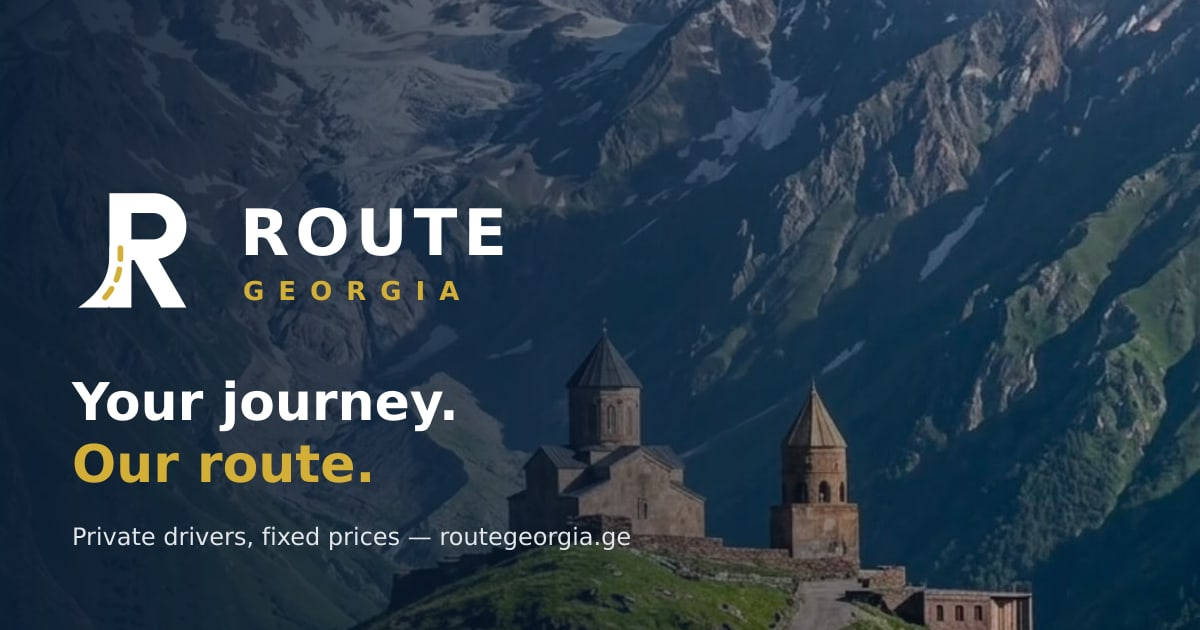
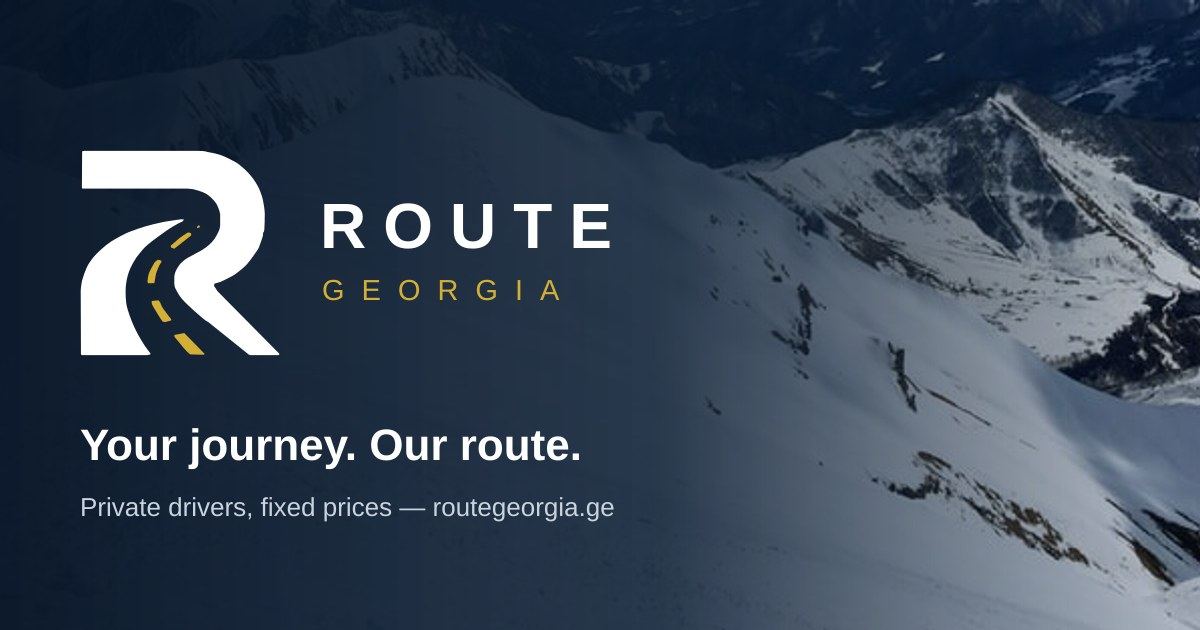
Modernization phases 1-3: real brand mark, Inter, design-system rules
The header, footer, favicon and share card now use the designer's actual
R mark from the design-system package (the road-counter drawing), with
source SVGs kept in /public/brand. Inter becomes the reading face while
Montserrat carries headings, navigation and buttons, per the brand
guidelines. Route Blue #183A5B is the hover depth, semantic feedback and
motion tokens are defined, the focus ring is the system's 3px gold, the
header keeps to five primary items (Schools stays in the footer and on
the Business page), and the checkout inputs carry autocomplete hints.
Lock file verified with a clean npm ci.

diff --git a/src/components/logo.tsx b/src/components/logo.tsx
@@ -1,25 +1,16 @@
 /**
- * The RouteGeorgia monogram, matched to the identity sheets: a bold R whose
- * left stem flows into a road sweeping down-left, with a gold dashed centre
- * line. Drawn in code — crisp at every size, restyleable per surface, and
- * replaceable by the designer's vector in one file.
+ * The RouteGeorgia mark — the designer's actual vector from the design
+ * system package (assets/logo/mark-primary.svg): a bold R whose counter
+ * forms a winding road, with a dashed gold centre line. Fills are
+ * parametrised so the same drawing serves the primary (navy-on-light)
+ * and reverse (white-on-navy) applications; the source SVGs live in
+ * /public/brand for print and email use.
  */
 function MarkPaths({ fg, dash }: { fg: string; dash: string }) {
   return (
     <g>
-      <path
-        fill={fg}
-        d="M17 6 h20 a15 15 0 0 1 2.2 29.84 L52 58 H40.6 L28.4 36.4 H27 v-9.4 h10 a6 6 0 0 0 0-12 H27 V58 H17 Z"
-      />
-      <path fill={fg} d="M27 30 v6 c0 8.5 -3.4 15.4 -10.6 22 H2.8 C13.4 50.6 17 43.6 17 34 v-4 Z" />
-      <path
-        fill="none"
-        stroke={dash}
-        strokeWidth="2.6"
-        strokeLinecap="round"
-        strokeDasharray="5 4.6"
-        d="M22 31 v4.4 c0 7.8 -2.8 13.9 -8.6 19.8"
-      />
+      <path fill={fg} d="M839 860C839 860 836 863 836 863C836 863 717 863 717 863C717 863 717 863 711 861C682.52 838.6 568.44 746.2 539 723C527 716 536.76 723 527 716C517.24 708.16 493.68 688.4 478 674C462.32 659.6 440.84 639.92 429 626C417.16 612.08 409.12 596.92 404 587C398.88 577.08 398.12 572.96 397 564C397 555.04 397 540.12 397 531C398.12 521.88 400.64 514.52 404 507C407.36 499.48 413.84 489.76 418 484C422.16 478.24 424.24 475.96 430 471C435.76 466.04 440.72 461 454 453C467.28 445 498.6 429.8 513 421C527.4 412.2 535.52 405.52 544 398C552.48 390.48 559.6 383.12 566 374C572.4 364.88 580.16 349.96 584 341C587.84 332.04 589.04 329.36 590 318C590 306.64 590 283.6 590 270C588.08 256.4 582.64 242.76 578 233C573.36 223.24 567.24 216.04 561 209C554.76 201.96 546.04 194.12 539 189C531.96 183.88 526.6 180.84 517 177C507.4 173.16 489.56 167.4 479 165C468.44 162.6 451 162 451 162C451 162 10 162 10 162C10 162 8 158 8 158C8 158 9 5 9 5C9 5 17 3 17 3C17 3 406.48 3 490 3C539 3.8 522.52 5.12 539 8C555.48 10.88 576.04 15.08 593 21C609.96 26.92 632.2 38.28 645 45C657.8 51.72 663.56 55.64 673 63C682.44 70.36 695.2 82.04 704 91C712.8 99.96 721.28 110.04 728 119C734.72 127.96 741.2 138.52 746 147C750.8 155.48 754.16 161.92 758 172C761.84 182.08 766.8 194.8 770 210C773.2 225.2 777.04 247.16 778 267C778 286.84 777.12 321.04 776 334C774.88 346.96 771.96 343.68 771 348C770.04 352.32 771 352.84 770 361C767.76 369.16 760.84 389.24 757 399C753.16 408.76 754.48 409.2 746 422C737.52 434.8 716.64 464.6 704 479C691.36 493.4 677.08 503.84 667 512C656.92 520.16 652.84 523.28 641 530C629.16 536.72 593 554 593 554C593 554 566 562 566 562C566 562 564 571 564 571C564 571 579 594 579 594C579 594 839 857 839 857C839 857 839 860 839 860ZM296 860C296 860 283 863 283 863C283 863 8 863 8 863C8 863 4 860 4 860C4 860 3 590 3 590C3 590 5.16 562.88 9 548C12.84 533.12 21.24 510.12 27 497C32.76 483.88 38.28 475.6 45 466C51.72 456.4 58.44 447.72 69 437C79.56 426.28 98.52 408.92 111 399C123.48 389.08 134.04 382.68 147 375C159.96 367.32 180 356.76 192 351C204 345.24 208.72 343.8 222 339C235.28 334.2 254.84 326.76 275 321C295.16 315.24 323.84 307.8 348 303C372.16 298.2 426 291 426 291C426 291 438 292 438 292C438 292 430 302 430 302C430 302 423.56 303.08 413 309C402.44 314.92 384.48 324.76 364 339C343.52 353.24 303.4 382.32 285 398C266.6 413.68 257.64 426.76 249 437C240.36 447.24 236.76 452.72 231 462C225.24 471.28 217.8 484.44 213 495C208.2 505.56 204.04 517.12 201 528C197.96 538.88 195.44 552.28 194 563C192.56 573.72 192 582.84 192 595C192 607.16 192.56 626.68 194 639C195.44 651.32 197 658.56 201 672C205 685.44 212.28 706.68 219 723C225.72 739.32 234.36 757.84 243 774C251.64 790.16 264.52 811.04 273 824C281.48 836.96 296 855 296 855C296 855 296 860 296 860Z" />
+      <path fill={dash} d="M498 317C498 317 503 317 503 317C503 317 505 324 505 324C505 324 494 329 494 329C494 329 492 323 492 323C492 323 498 317 498 317ZM468 359C468 359 397 415 397 415C397 415 383 410 383 410C383 410 382 402 382 402C382 402 419 370 419 370C419 370 446.12 350.68 453 347C459.88 347 459.6 347 462 347C464.4 347.8 467.04 350.08 468 352C468 353.92 468 359 468 359ZM313 560C313 560 286 560 286 560C286 560 284 552 284 552C284 552 286.04 528.96 291 516C295.96 503.04 315 471 315 471C315 471 328 461 328 461C328 461 342 465 342 465C342 465 343 471 343 471C343 471 335.68 481.16 332 489C328.32 496.84 320 520 320 520C320 520 313 560 313 560ZM384 717C384 717 358 724 358 724C358 724 354.68 724 347 721C339.32 711.08 317.2 674.16 310 662C302.8 649.84 302 645 302 645C302 645 302 635 302 635C302 635 330 632 330 632C330 632 337 640 337 640C337 640 342.48 655.48 350 667C357.52 678.52 384 712 384 712C384 712 384 717 384 717ZM525 858C525 858 522 861 522 861C522 861 482.6 861 465 860C447.4 850.72 422.72 814.84 412 803C401.28 791.16 398 786 398 786C398 786 397 778 397 778C397 778 439 770 439 770C439 770 525 858 525 858Z" />
     </g>
   );
 }
@@ -29,13 +20,15 @@ export function RMark({ className = "size-9", tile = false }: { className?: stri
     <svg viewBox="0 0 64 64" className={className} aria-hidden>
       {tile ? (
         <>
-          <rect width="64" height="64" rx="14" fill="#0b1d33" />
-          <g transform="translate(7,3) scale(0.8)">
+          <rect width="64" height="64" rx="15" fill="#0B1D33" />
+          <g transform="translate(7.5,6) scale(0.0577)">
             <MarkPaths fg="#ffffff" dash="#d4af37" />
           </g>
         </>
       ) : (
-        <MarkPaths fg="#0b1d33" dash="#d4af37" />
+        <g transform="scale(0.0736) translate(11,4)">
+          <MarkPaths fg="#0b1d33" dash="#d4af37" />
+        </g>
       )}
     </svg>
   );
@@ -46,16 +39,18 @@ export function Logo({ dark = false }: { dark?: boolean }) {
     <span className="flex items-center gap-2.5" aria-hidden>
       {dark ? (
         <svg viewBox="0 0 64 64" className="size-9" aria-hidden>
-          <MarkPaths fg="#ffffff" dash="#d4af37" />
+          <g transform="scale(0.0736) translate(11,4)">
+            <MarkPaths fg="#ffffff" dash="#d4af37" />
+          </g>
         </svg>
       ) : (
         <RMark className="size-9" />
       )}
       <span className="flex flex-col leading-none">
-        <span className={`text-lg font-extrabold tracking-[0.08em] ${dark ? "text-white" : "text-[#0b1d33]"}`}>
+        <span className={`font-display text-lg font-semibold tracking-[0.24em] ${dark ? "text-white" : "text-[#0b1d33]"}`}>
           ROUTE
         </span>
-        <span className="mt-0.5 text-[9px] font-semibold tracking-[0.42em] text-[#d4af37]">
+        <span className={`font-display mt-0.5 text-[8.5px] font-medium tracking-[0.55em] ${dark ? "text-[#d4af37]" : "text-[#c7992f]"}`}>
           GEORGIA
         </span>
       </span>

diff --git a/src/app/globals.css b/src/app/globals.css
@@ -41,7 +41,7 @@
   --color-brand-400: #56779f;
   --color-brand-500: #2b4a74;
   --color-brand-600: #0b1d33;
-  --color-brand-700: #142e4e;
+  --color-brand-700: #183a5b; /* Route Blue — hover depth */
   --color-brand-800: #081524;
   --color-brand-900: #050e19;
 
@@ -66,10 +66,23 @@
   --color-gold-600: #a8871f;
   --color-gold-700: #7d6417;
 
+  /* Feedback (design system semantics) */
+  --color-success: #157a55;
+  --color-warning: #a56610;
+  --color-danger:  #b43b42;
+  --color-info:    #2e6e9e;
+
+  /* Motion (design system: small / component / spatial) */
+  --duration-fast: 120ms;
+  --duration-normal: 220ms;
+  --duration-slow: 420ms;
+  --ease-standard: cubic-bezier(.2, .8, .2, 1);
+
   --color-danger: #b3261e;
   --color-danger-bg: #fbeceb;
 
-  --font-sans: "Montserrat", "Noto Sans Georgian", "Segoe UI", Arial, sans-serif;
+  --font-sans: "Inter", "Noto Sans Georgian", "Segoe UI", Arial, sans-serif;
+  --font-display: "Montserrat", "Noto Sans Georgian", "Segoe UI", Arial, sans-serif;
 
   --radius-card: 1rem;
 
@@ -99,6 +112,11 @@ body {
 /* Bold labels carry the -0.02em tracking — a deliberate typographic tic. */
 .font-semibold, .font-bold, strong { letter-spacing: -0.02em; }
 
+/* Brand face for the display voice; Inter carries reading text. */
+h1, h2, h3, h4, h5, nav, button, .font-display {
+  font-family: var(--font-display);
+}
+
 /* Micro caps annotation above sections — steel, quiet. */
 .eyebrow {
   font-size: 0.6875rem;
@@ -119,7 +137,7 @@ body {
 }
 
 :focus-visible {
-  outline: 2px solid var(--color-brand-600);
+  outline: 3px solid var(--color-gold-500);
   outline-offset: 2px;
   border-radius: 4px;
 }

diff --git a/src/app/[locale]/layout.tsx b/src/app/[locale]/layout.tsx
@@ -39,7 +39,6 @@ export default async function LocaleLayout({
     { href: `/${locale}/tours`, label: t("nav.tours") },
     { href: `/${locale}/plan`, label: t("nav.plan") },
     { href: `/${locale}/business`, label: t("nav.business") },
-    { href: `/${locale}/schools`, label: t("nav.schools") },
     { href: `/${locale}/about`, label: t("nav.about") },
   ];
 

diff --git a/src/app/layout.tsx b/src/app/layout.tsx
@@ -1,5 +1,8 @@
 import type { Metadata } from "next";
 import { config } from "@/lib/config";
+import "@fontsource/inter/400.css";
+import "@fontsource/inter/500.css";
+import "@fontsource/inter/600.css";
 import "@fontsource/montserrat/400.css";
 import "@fontsource/montserrat/500.css";
 import "@fontsource/montserrat/600.css";

diff --git a/MODERNIZATION-PLAN.md b/MODERNIZATION-PLAN.md
@@ -1,0 +1,82 @@
+# RouteGeorgia — Website Modernization Plan
+
+*Prepared 23 Aug 2026, against the Route Georgia Design System v1.0 ("Round 1" identity).*
+
+## Where we stand
+
+The site is live on the navy/gold identity with the customer journey verified end-to-end (search → checkout → confirmation, tours, language switching). But it was built *toward* the identity sheets before the full design-system package existed. Now that the package is here, an audit against it shows the site is roughly 80% aligned: colors and Montserrat match, but the logo is a stand-in, the body typeface is wrong, several component rules are violated, and the accessibility baseline is only partly met.
+
+This plan is split into what I will implement (Phases 1–4) and what only you can do (Phase 5 and Operations). Each phase is one deploy.
+
+---
+
+## Phase 1 — Brand correctness (the logo)
+
+**The problem.** The site header, footer, favicon and share card use an R-monogram I drew in code as a placeholder. The design system contains the real mark: a large R whose negative space forms a winding road, with gold dashes tracing the centre line — a much richer drawing, with strict usage rules.
+
+**What I will do:**
+
+1. Replace the coded monogram with the real vector paths from the package: `mark-primary.svg` on light surfaces, `mark-reverse.svg` on the navy header and dark panels, `mark-mono.svg` reserved for print contexts.
+2. Use `lockup-horizontal.svg` (mark + ROUTE / GEORGIA wordmark) as the default signature in the header and footer, per the logo hierarchy — the standalone mark only where the name is visible nearby.
+3. Regenerate the favicon set from `favicon.svg` and rebuild `og.jpg` (the social share card) with the real mark.
+4. Respect the rulebook: minimum sizes (160 px lockup / 24 px mark), clear space of one road-width, no shadows, no gradients, no recolored road.
+5. Put the raw SVGs in the repo under `public/brand/` so emails and future materials pull from one source.
+
+## Phase 2 — Design-token alignment
+
+The site's Tailwind tokens are close but not identical to `tokens.json`. I will align them exactly:
+
+1. **Typography:** add **Inter** (self-hosted, like Montserrat) as the reading face for paragraphs, forms and data. Montserrat stays for headings, navigation and labels only, weights 500–700. Today everything is Montserrat, which makes long text heavier than the system intends.
+2. **Colors:** adopt the full navy scale (950 `#050D16` → 600 `#255374`), with Route Blue `#183A5B` for hover states; add the light golds (`#E2C266`, `#F7EFD9`); align the neutral scale; add the four semantic feedback colors (success/warning/danger/info) and use them in booking status badges and form errors.
+3. **Motion:** the system's three durations (120/220/420 ms) and standard easing `cubic-bezier(.2,.8,.2,1)` as CSS variables, applied consistently, plus `prefers-reduced-motion` support.
+4. **Radius and shadows:** map to the system's sm/md/lg/xl/round and three shadow levels.
+
+## Phase 3 — Component modernization
+
+Bringing the UI in line with the component guidelines:
+
+1. **Buttons:** enforce the hierarchy — navy for the normal next step, **gold reserved for the single journey-defining action per screen** (currently gold appears more than once on some pages), outline for secondary, ghost for cancel. Sentence case, verb first.
+2. **Navigation:** the header currently has seven items (Transfers, Tours, Build my route, For business, For schools, About us, Drive with us); the system caps primary navigation at five. I'll consolidate — likely Transfers, Tours, Build my route, plus a "Company" group for Business/Schools/About, with Drive with us staying as a distinct call-out.
+3. **Forms:** labels stay visible above fields everywhere (no placeholder-only labels), helper/error text directly under the control, `autocomplete` attributes on the checkout (name, email, tel) so browsers can fill them, and user input preserved after validation errors.
+4. **Focus and targets:** the 3 px gold focus ring on every interactive element, and minimum 44×44 px touch targets (some map pins and footer links are under this today).
+5. **Cards:** one subject, one destination per card; consistent media ratios inside each collection (tour cards vs. category cards currently differ slightly).
+
+## Phase 4 — Accessibility and polish baseline
+
+1. Skip link on content-heavy pages; DOM order matches reading order.
+2. Contrast audit: gold text on white is decoration-only per the system — I'll find and fix any instance used for real copy.
+3. Alt-text pass: meaningful images described by purpose, decorative photography gets empty alt.
+4. 200% browser-zoom test on the booking flow; fix anything that clips.
+5. All-caps limited to short labels and the wordmark (a few section eyebrows currently set sentences in caps).
+6. Travel-content rule: road-closure/seasonal warnings appear before promotional copy on tour pages (relevant for Kazbegi and mountain routes in winter).
+
+---
+
+## Phase 5 — Content and photography (you, with my help)
+
+1. **Original photos.** The hero photos you sent arrived WhatsApp-compressed (capped at ~1200 px, visibly soft on large screens). Re-send them **as documents/files**, not as photos, and I'll regenerate every size. The design system's photography rules are the filter: real routes, natural light, people as participants not props, no oversaturation.
+2. **Copy voice pass.** The system's voice is "a trusted local guide — lead with the useful fact, then add atmosphere." Once you approve the English tone, I'll carry it into Georgian and Russian (the parity test already guards completeness, not tone).
+3. **Legal texts.** Your lawyer's terms/privacy/cancellation texts go in through `/admin/content` — no developer needed.
+
+## Operations backlog (you — unchanged from before, in priority order)
+
+1. **Resend account** → I wire real booking emails the same day (currently emails only log to the server console).
+2. **SUPPORT_PHONE env var + support@routegeorgia.ge mailbox** → contact page and footer become real.
+3. **Payment provider decision** (bank sit-down) → card payments; cash works today.
+4. **Render paid tier + R2 storage** when you announce launch (free tier sleeps; driver documents need durable storage).
+5. **Wipe demo data / launch seed** when the first real driver signs.
+
+---
+
+## Suggested order and effort
+
+| Phase | Who | Effort | Deploy |
+|---|---|---|---|
+| 1 — Logo | me | one session | yes |
+| 2 — Tokens | me | one session | yes (visual diff check after) |
+| 3 — Components | me | one–two sessions | yes |
+| 4 — Accessibility | me | one session | yes |
+| 5 — Content/photos | you + me | as material arrives | rolling |
+| Operations | you | account setups | n/a |
+
+Phases 1 and 2 can ship together. After each design-heavy deploy, remember: if the change "doesn't land," it's the Render build cache — Manual Deploy → **Clear build cache & deploy**.
